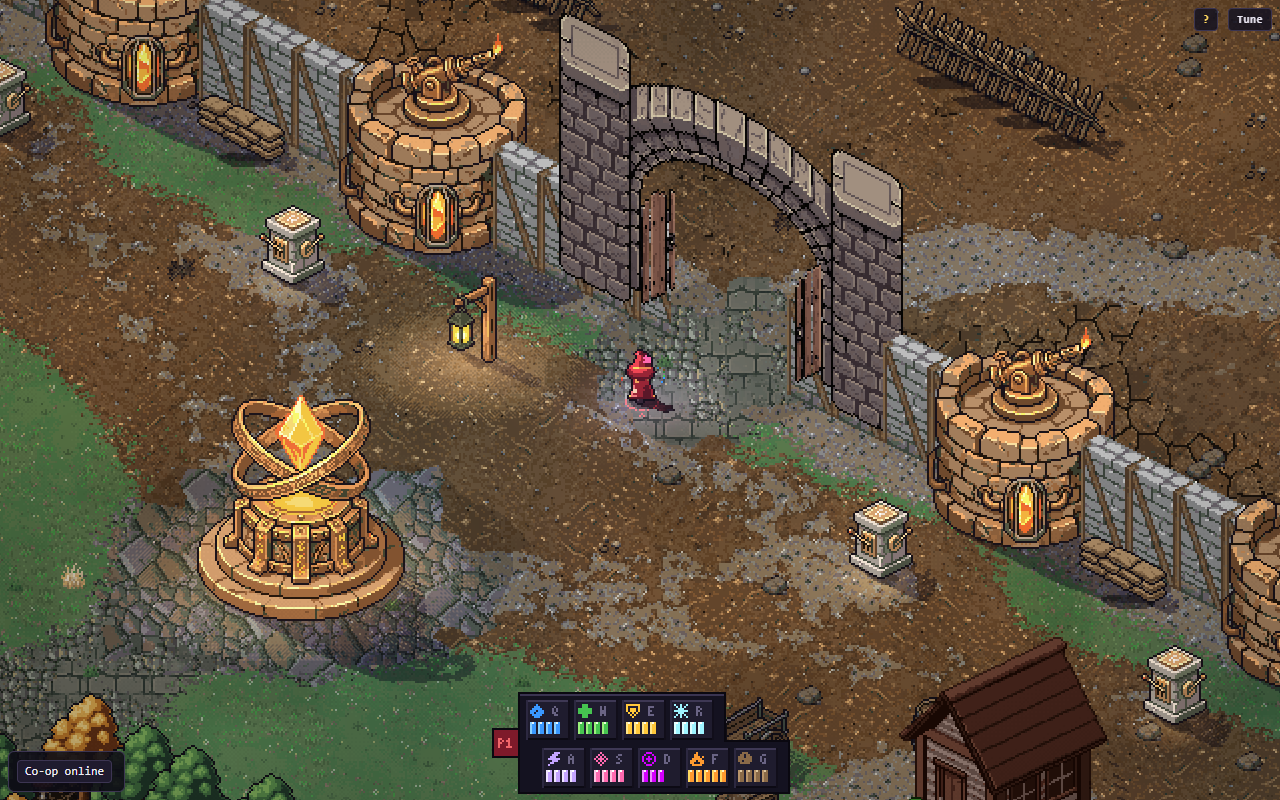
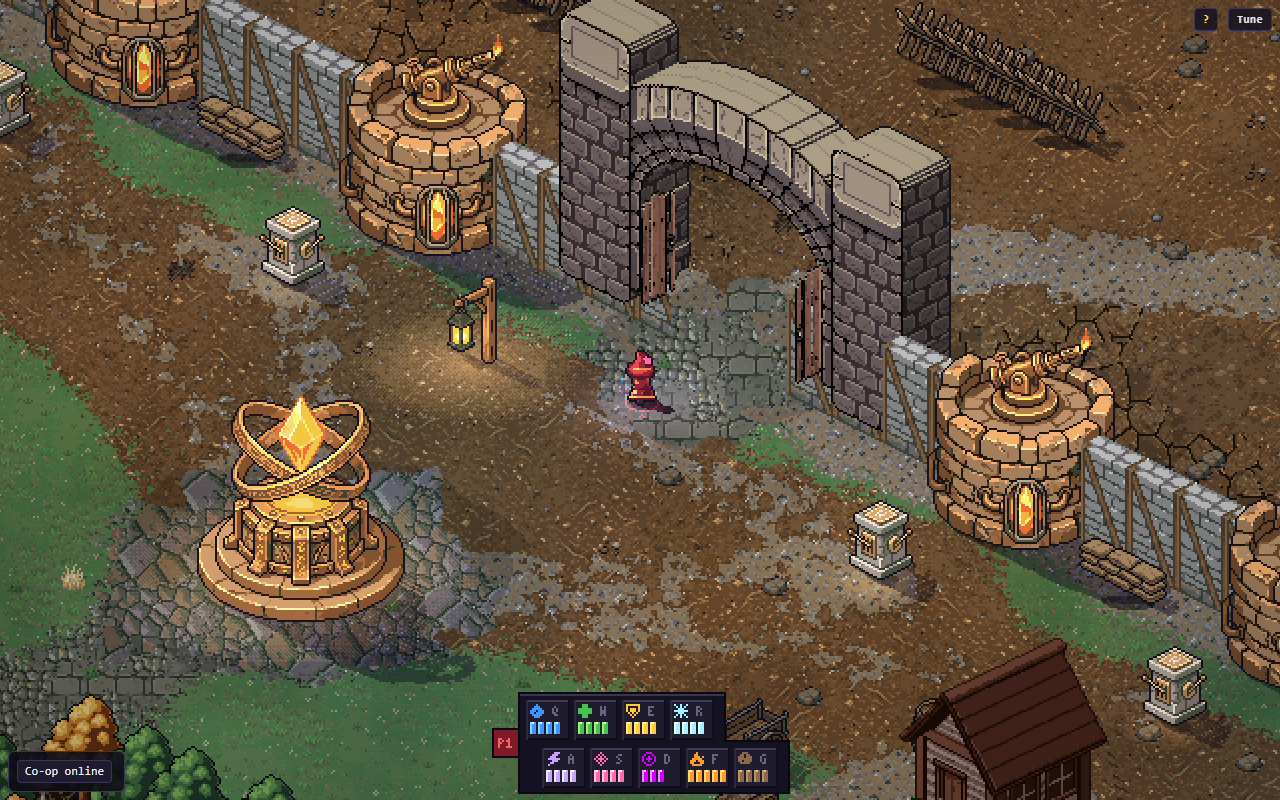
The battery's gatehouse has depth
The front is extruded back through the wall, with lit tops and shaded brick sides. No generations spent.

Claude-Session: https://claude.ai/code/session_01JAzvjmRJ1wdD5eYGXNht1d

diff --git a/tools/segments/01-opening/segment.js b/tools/segments/01-opening/segment.js
@@ -49,7 +49,7 @@ chapters:[
  solve:[
  ]},
 {id:'battery',name:'The battery',
- shots:[['img/battery-gate.png','The gate through the wall with the well in the rear yard and towers either side','The rear yard, from the gate. Built, and walkable.'],['img/battery-crews.png','A wizard in the rear yard between the wall towers and the well','Where the crews stand: a pedestal for each tower.'],['img/battery-north.png','The road leaving the killing ground into dense woods','The way out to the north, with woods past the edge of the area.']],
+ shots:[['img/battery-gate.png','The gate through the wall with the well in the rear yard and towers either side','The rear yard, from the gate. Built, and walkable.'],['img/battery-crews.png','A wizard in the rear yard between the wall towers and the well','Where the crews stand: a pedestal for each tower.'],['img/battery-north.png','The gatehouse and wall towers seen from the north side of the wall','The gate from the killing ground: thick enough to stand as a real structure.']],
  map:{W:84,H:72,base:'grass',what:`The first job. You drive a defence on the wall until it runs dry, then go out through the gate on your own power.`,
   route:[[42,72],[42,62],[29,43],[42,42],[42,26],[64,10],[64,0]],
   views:[['Driving a defence',29,26],['Your own body',29,44],['Out the gate',42,24]],
@@ -76,7 +76,7 @@ chapters:[
  [`More air.`,` The area is now 84 × 72. The defences stand 13 apart, the rear yard is half as deep again, the well sits 19 back from the wall, and the stores keep to their own corner.`],
  [`Tower size is right,`,` at about three and a half wizards wide.`],
  [`The towers don't all have to fit one screen.`,` A neighbouring pair fits at 1080p, and that's fine.`],
- [`The gate is the one we had, re-angled for free`,` to run along the wall, with its doors swung open.`],
+ [`The gate is the one we had, re-angled for free`,` to run along the wall and given real thickness, with its doors swung open.`],
  [`One lane per player.`,` Each wave sends the same number of enemies at each occupied defence, and they go for their own lane's defence first. Neighbouring reach overlaps so players can help. Solo is one lane at the centre.`],
  [`Each wave is built for one Fire attack.`,` Archers beyond spray reach call for Place, a swarm of small enemies for the burst, something heavy at the wall for the flamethrower. Wave sizes wait for the flamethrower and burst balance.`],
  [`The transition.`,` The last pip gutters and the nozzle coughs. The bar goes dark. The camera slides back to your body and everything goes quiet for a beat. A surge comes up from the ground, the screen brightens from your wizard outward, and one Fire pip lights. Then a single line, something like "You've learned to channel fire".`],

diff --git a/tools/art-import/defence.py b/tools/art-import/defence.py
@@ -28,27 +28,53 @@ PIECES = [
 
 
 def angled_gate(c):
-    """The bought gatehouse faces the camera. Shearing each column down 1 px per 2 across lays it on the line the wall runs on, and the doors swing open through the arch."""
+    """The bought gatehouse is a flat front facing the camera. Each column is sheared down 1 px per 2 across, which lays it on
+    the line the wall runs on. Then it's extruded back through the wall (up and to the right on screen) so the pylons and the
+    arch have lit tops and shaded brick sides. The doors swing open against the jambs."""
     a = np.array(c)
     h, w = a.shape[:2]
-    cx, pad = w // 2, w // 4 + 2
+    D = 24                                    # thickness, art px across the screen: about 2 units
+    cx, pad = w // 2, w // 4 + 2 + D // 2 + 2
     left = c.crop((43, 64, 85, 120)).resize((18, 56), Image.NEAREST)
     right = c.crop((88, 64, 130, 120)).resize((18, 56), Image.NEAREST)
     a[62:126, 42:131] = 0                     # the closed doors go
     fall = lambda x: pad + (x - cx) // 2
-    out = Image.new('RGBA', (w + 22, h + pad * 2 + 20))
-    for leaf, jamb in ((left, 41), (right, 118)):  # each leaf runs back through the arch, up and to the right
+    H, W = h + pad * 2 + 20, w + D + 4
+    body = np.zeros((H, W, 4), np.uint8)
+    for x in range(w):
+        body[fall(x):fall(x) + h, x] = a[:, x]
+    solid = body[..., 3] > 0
+    back = np.zeros((H, W, 4), np.uint8)
+    mask = np.zeros((H, W), bool)
+    TOP = np.array([186, 172, 150, 255]), np.array([160, 146, 128, 255])
+    ys, xs = np.where(solid)
+    def sweep(keep, paint):                   # far to near, so the nearest surface wins
+        for i in range(D, 0, -1):
+            for y, x in zip(ys, xs):
+                ty, tx = y - (i + 1) // 2, x + i
+                if keep(y, x) and 0 <= ty < H and 0 <= tx < W and not solid[ty, tx]:
+                    back[ty, tx] = paint(y, x, i)
+                    mask[ty, tx] = True
+    def brick(y, x, i):                       # a face turned to the right, in shade
+        row = min(34 + (y - fall(x)) % 90, h - 1)
+        rgb = a[row, 5 + i % 24, :3] if a[row, 5 + i % 24, 3] else np.array([70, 62, 76])
+        return (*(rgb * .62).astype(np.uint8), 255)
+    sweep(lambda y, x: not solid[y, x + 1], brick)
+    sweep(lambda y, x: not solid[y - 1, x], lambda y, x, i: TOP[1] if i % 9 == 0 else TOP[0])   # tops last, they catch the light
+    holes = ~(mask | solid) & np.roll(mask | solid, 1, 1) & np.roll(mask | solid, -1, 1)
+    back[holes] = np.roll(back, 1, 1)[holes]
+    mask |= holes
+    every = mask | solid
+    edge = mask & ~(np.roll(every, 1, 0) & np.roll(every, -1, 0) & np.roll(every, 1, 1) & np.roll(every, -1, 1))
+    back[edge] = (24, 18, 28, 255)
+    out = Image.fromarray(back)
+    for leaf, jamb in ((left, 41), (right, 118)):  # each leaf lies back along the passage, up and to the right
         s = np.array(leaf)
         for i in range(s.shape[1]):
-            col = Image.fromarray(s[:, i:i + 1])
-            out.alpha_composite(col, (jamb + i, 64 + fall(jamb) + 8 - i // 2))
-    body = np.zeros((h + pad * 2 + 20, w + 22, 4), np.uint8)
-    for x in range(w):
-        y0 = fall(x)
-        body[y0:y0 + h, x] = a[:, x]
+            out.alpha_composite(Image.fromarray(s[:, i:i + 1]), (jamb + i, 64 + fall(jamb) + 8 - i // 2))
     out.alpha_composite(Image.fromarray(body))
     box = out.getchannel('A').getbbox()
-    return out.crop((0, box[1], w, box[3])), h - 2 + pad - box[1]
+    return out.crop((box[0], box[1], box[2], box[3])), cx - box[0], h - 2 + pad - box[1]
 
 
 def main():
@@ -66,8 +92,8 @@ def main():
     register('battery-well', 'Battery well', [5.0, 5.0], im, WELL_RAW, 'create_1_direction_object', foot=[im.width // 2, im.height - im.width // 4])
     # The gatehouse stands across the wall. The level puts its spot 3.5 u down the screen and `lift` raises the art back
     # by the same 40 px, so it sorts in front of the wall pieces that join it.
-    im, foot_y = angled_gate(trim(Image.open(os.path.join(ROOT, GATE_RAW)).convert('RGBA')))
-    register('battery-gatehouse', 'Gatehouse (battery)', [7.0, 1.0], im, GATE_RAW, 'create_map_object', 'trimmed, sheared 2:1 to run along the wall, doors swung open', foot=[im.width // 2, foot_y])
+    im, foot_x, foot_y = angled_gate(trim(Image.open(os.path.join(ROOT, GATE_RAW)).convert('RGBA')))
+    register('battery-gatehouse', 'Gatehouse (battery)', [7.0, 1.0], im, GATE_RAW, 'create_map_object', 'trimmed, sheared 2:1 to run along the wall, extruded back through the wall for depth, doors swung open', foot=[foot_x, foot_y])
     meta = os.path.join(ASSETS, 'battery-gatehouse', 'meta.json')
     m = json.load(open(meta))
     m['lift'] = 40  # drawn 40 px above its spot: the art is on the wall line, and it sorts in front of the pieces that join it

diff --git a/docs/decisions/README.md b/docs/decisions/README.md
@@ -1131,3 +1131,4 @@ The user asked for an audit of how spells scale with extra runes, and for it to 
 - **More air** (the user: "very cramped"; tower size is fine). The area is 84 x 72, the defences 13 apart, the rear yard half as deep again. This replaces the 11 above. All four towers no longer fit one 1080p screen, which matters only for four players on one couch, and is open on the page.
 - **The gatehouse is re-angled, not rebought.** Sheared 2:1 to run along the wall, doors swung open, no generations spent.
 - **All four towers don't need to fit one screen** (the user), so the spacing stays.
+- **The gatehouse gets thickness** (the user: it looked flat). Its front is extruded back through the wall by hand, with lit tops and shaded brick sides, still with no generations spent.
